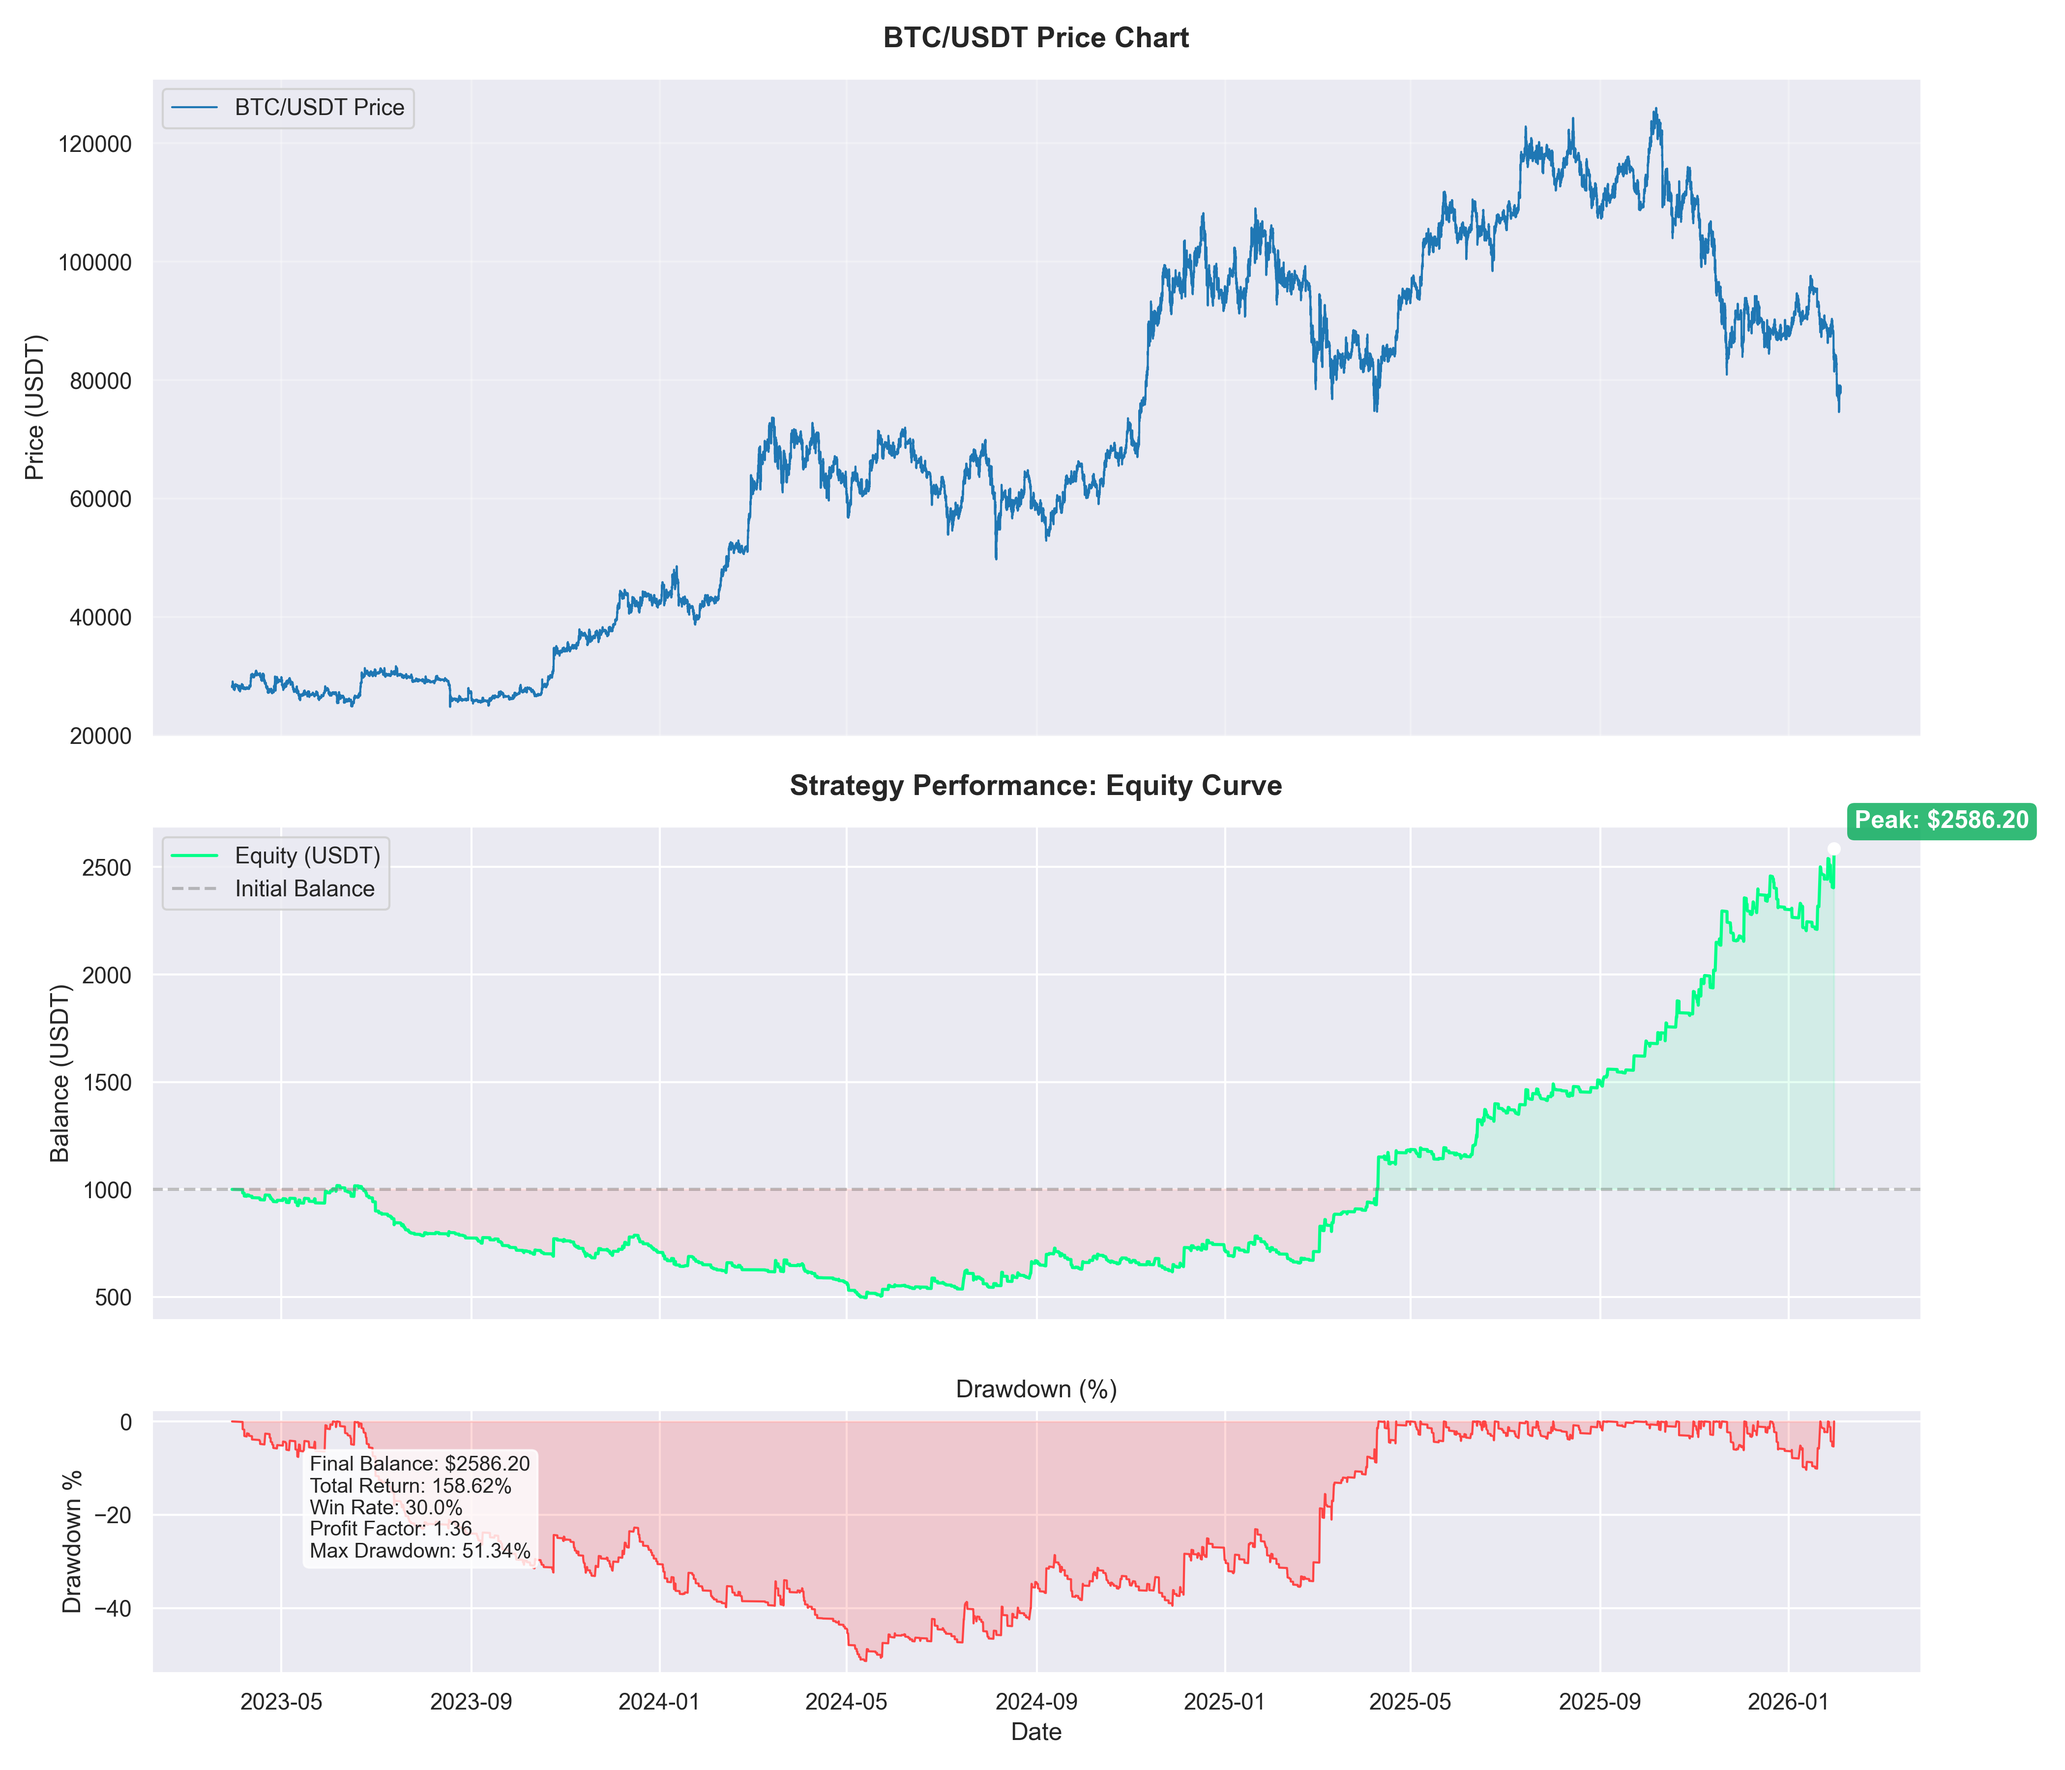
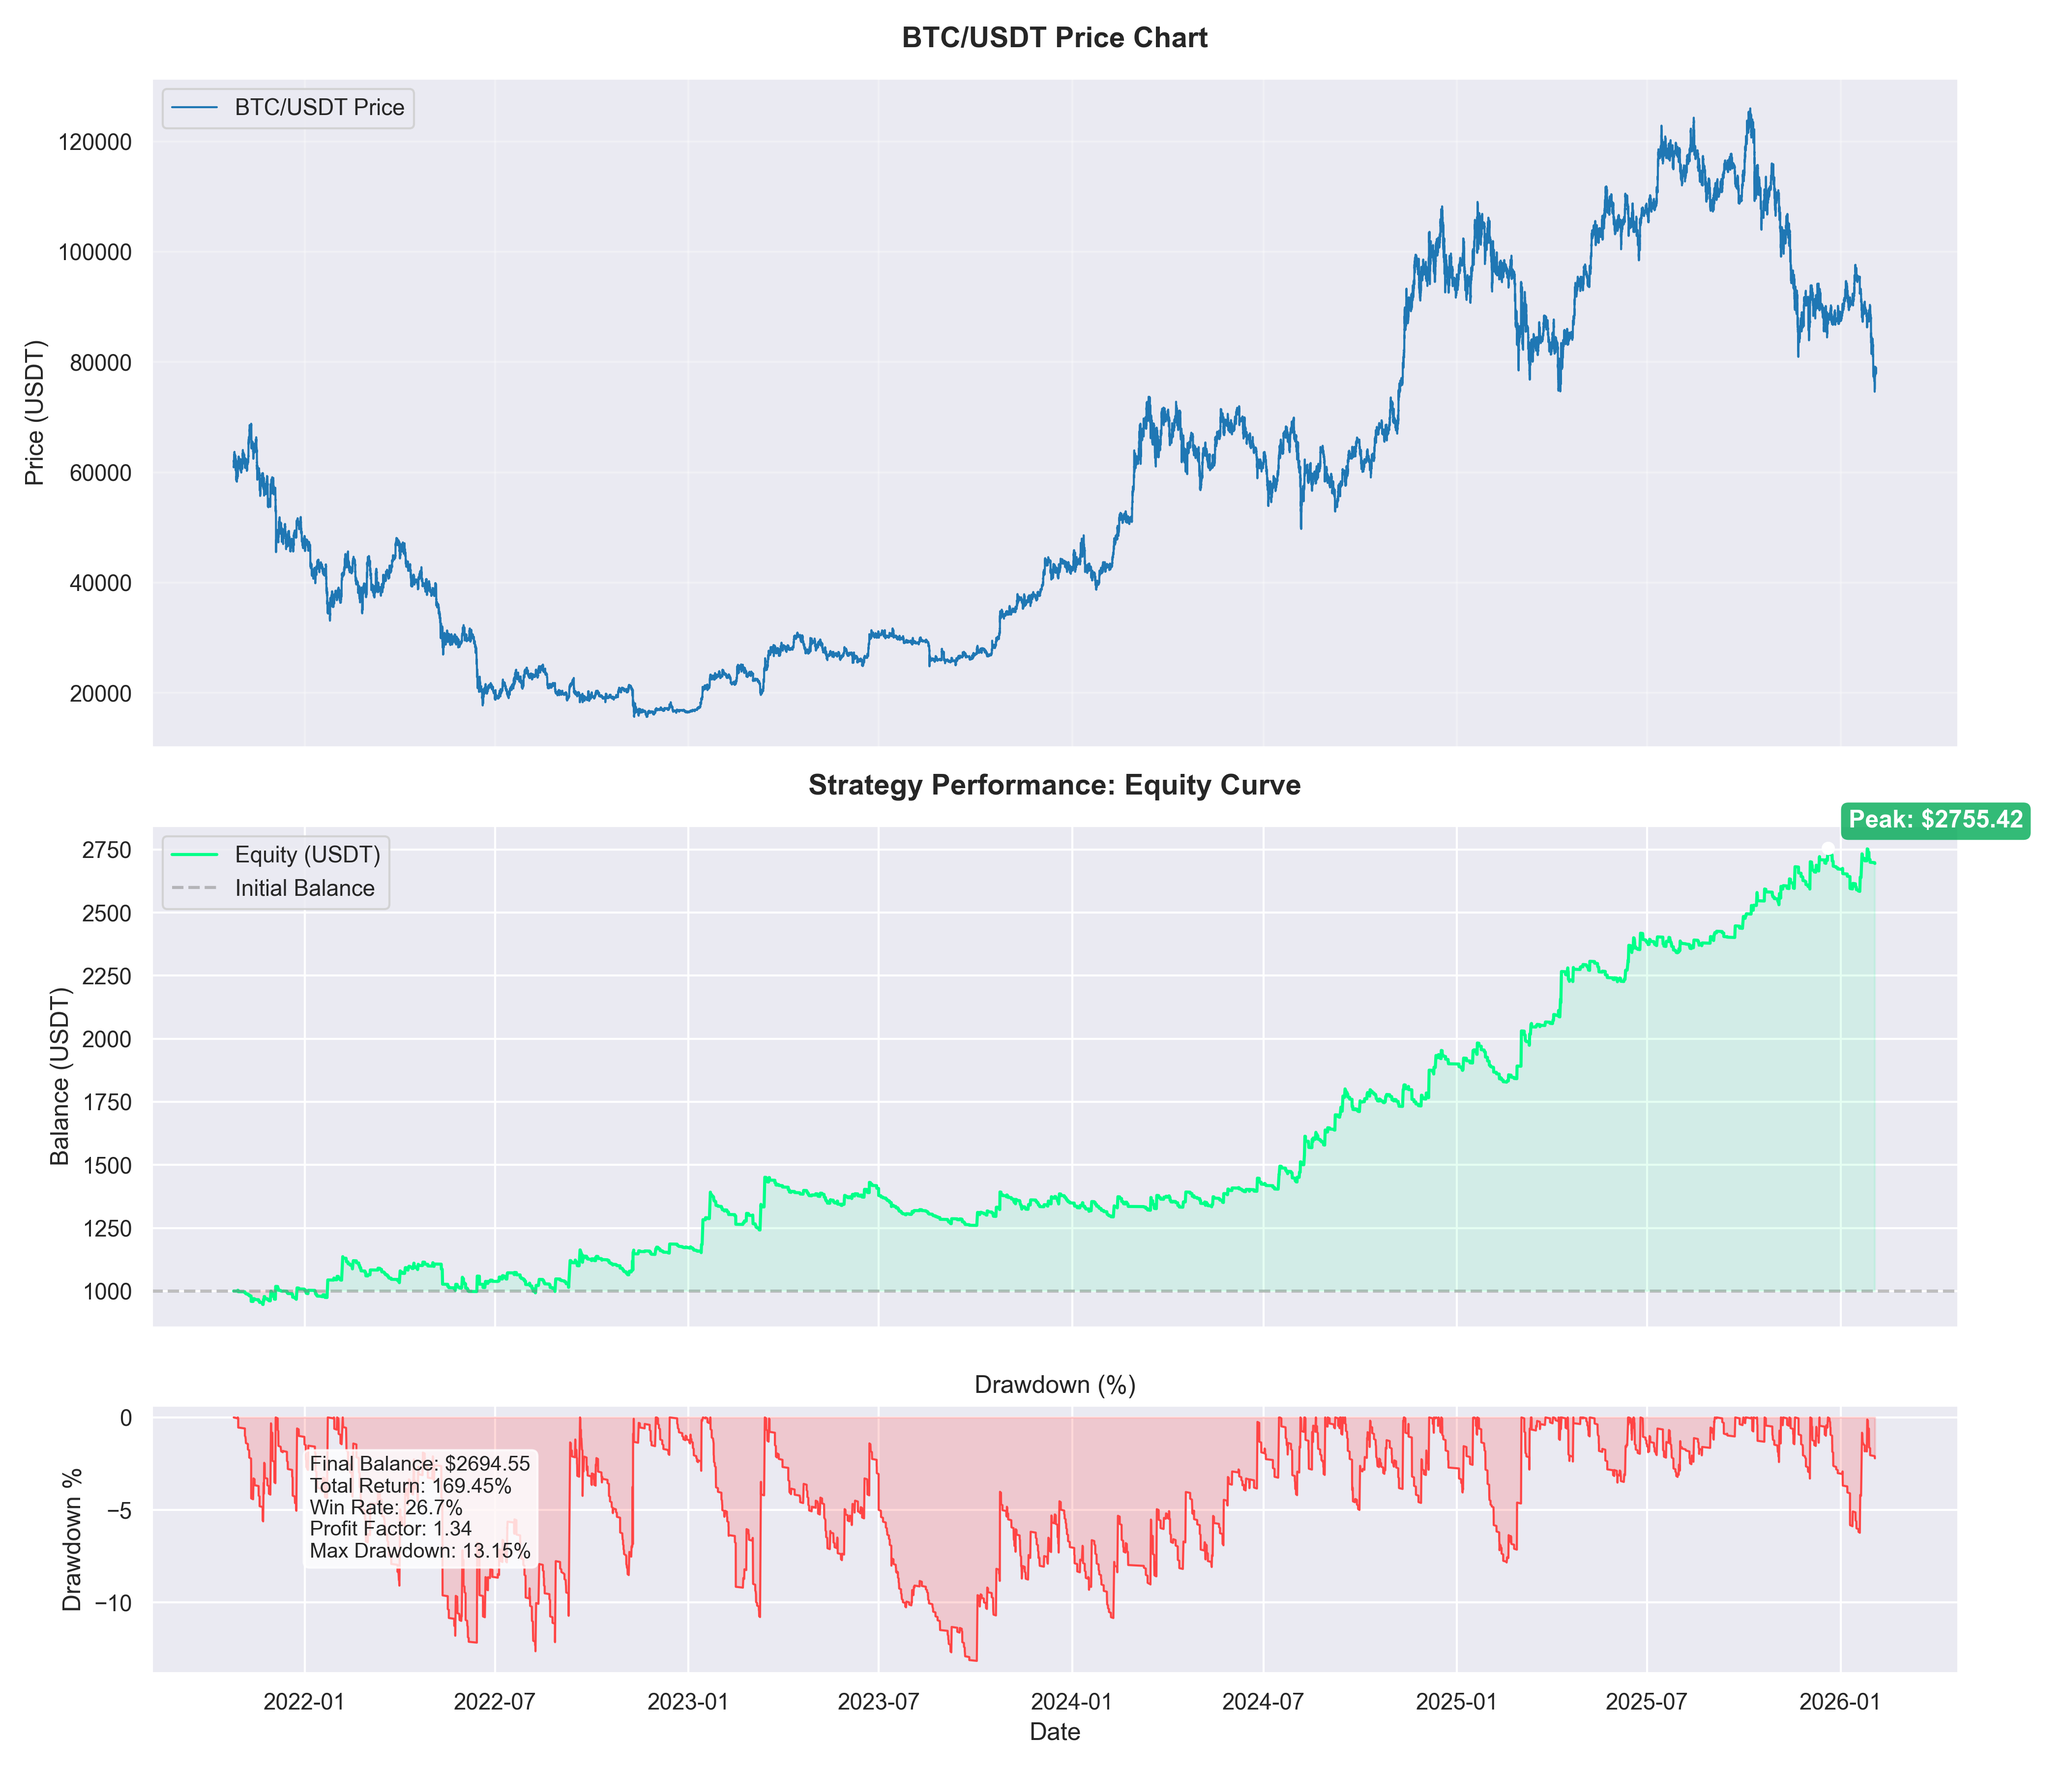
docs: Update performance summary image and remove partial take profit settings from config.py.

diff --git a/config.py b/config.py
@@ -58,10 +58,4 @@ VOLUME_MA_LENGTH = 177        # Long-term Volume MA to detect anomalous activity
 # EXIT SETTINGS
 # ------------------------------------------
 # Pure Trend Following: No Partial TP, ride until reversal.
-PARTIAL_TP_ENABLED = False
-PARTIAL_TP_MULTIPLIER = 2   
-PARTIAL_TP_PERCENT = 0.2
-
-# Protection Settings
 # Stop Loss is handled dynamically by ATR logic in bot
-
